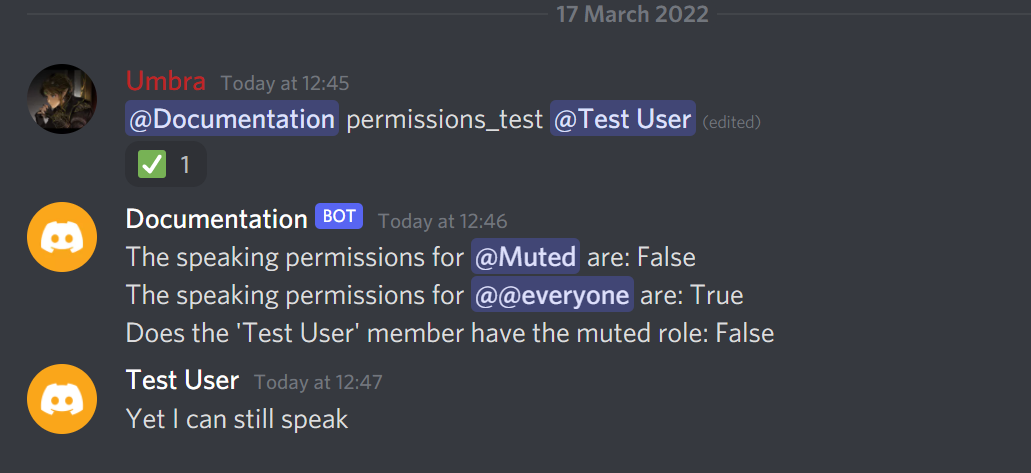
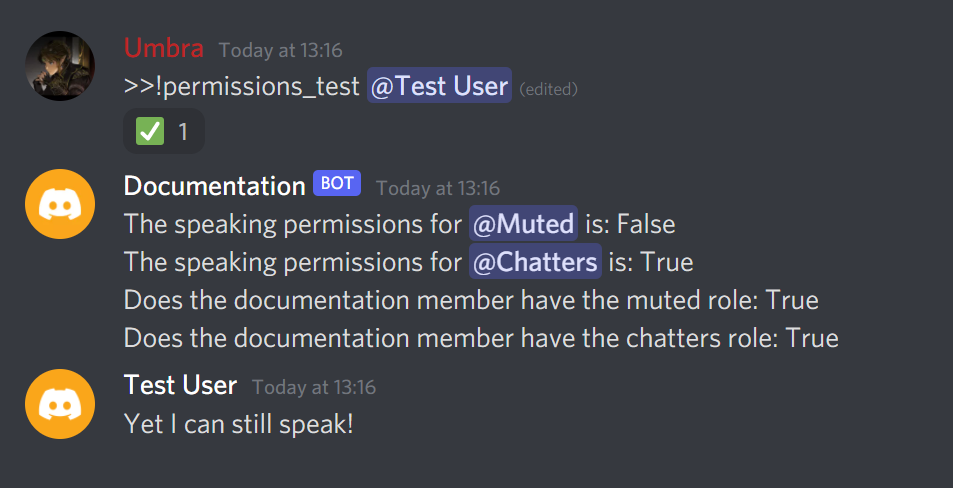
small cleanups on image format and bad method mentioning

Changed region(s): [[0.0, 0.0592, 0.8825, 0.74], [0.0304, 0.74, 0.3956, 0.9175], [0.5477, 0.0, 0.6999, 0.0592]]

diff --git a/docs/guide/topics/permissions.rst b/docs/guide/topics/permissions.rst
@@ -26,7 +26,7 @@ If you have a role list, like so:
 This means that Administrator role (someone who has it) can kick, ban and timeout Manager.
 Manager **cannot** kick, ban or timeout Administrator.
 
-discord.py is aware of this and has implemented the :meth:`~Role.__gt__` and similar methods on :class:`~Role` that allows you to perform the following:
+discord.py is aware of this and has implemented the ``__gt__`` and other methods on :class:`Role`, which allows you to do the following:
 
 .. code-block:: python3
 
@@ -37,9 +37,9 @@ One small caveat to note with the discord permissions system, is that in the cas
 
 In clearer terms, imagine this:
 
-Take a scenario where you have a text channel, that gives the ``@everyone`` role the ``send_messages`` overwrite set to ``True`` (or a green check-mark in the UI).
-If you then have a Muted role, that is supposed to disallow members from sending messages, but that role has the ``send_messages`` overwrite set to ``False`` (or a red cross in the UI)
-then members with that Muted role **can** still send  messages within this channel.
+Take a scenario where you have a text channel, that gives the ``@Chatters`` role the ``send_messages`` overwrite set to ``True`` (or a green check-mark in the UI).
+If you then have a ``@Muted`` role, that is supposed to disallow members from sending messages, but that role has the ``send_messages`` overwrite set to ``False`` (or a red cross in the UI)
+then members with that muted role **can** still send  messages within this channel.
 
 A small example to show this:
 
